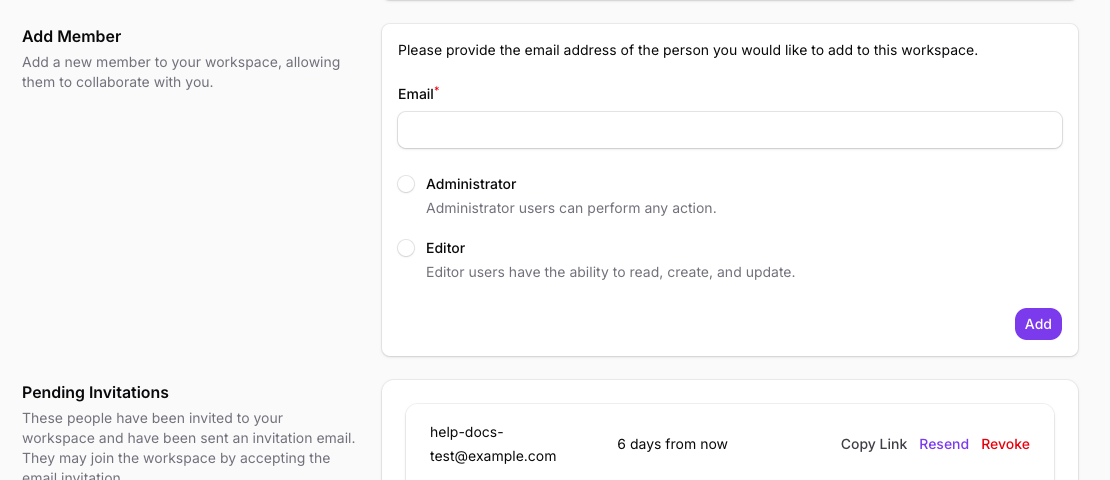
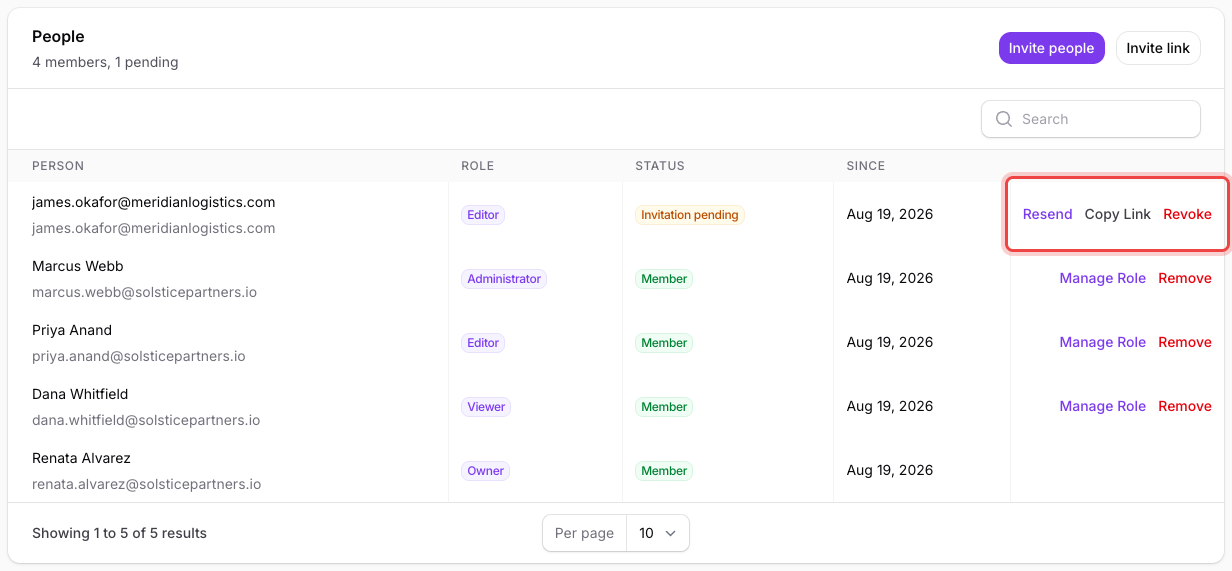
docs: update member and invitation help for the new flow

diff --git a/packages/Documentation/resources/content/help/workspace/manage-members-and-roles.md b/packages/Documentation/resources/content/help/workspace/manage-members-and-roles.md
@@ -1,48 +1,58 @@
 ---
 title: Manage members and roles
-description: What Administrators and Editors can each do, plus invitations, join links, and removing members.
+description: What Administrators, Editors, and Viewers can each do, plus invitations, join links, and removing members.
 order: 1
-updated: "2026-08-13"
+updated: "2026-08-19"
 related: [help/getting-started/invite-your-team, help/workspace/rename-or-delete-your-workspace]
 ---
 
 Membership is managed on **Workspace Settings** — click your workspace name
-at the top of the sidebar to reach it. Invitations, roles, and removals all
-live there.
+at the top of the sidebar to reach it, then click the **Members** tab.
+Invitations, roles, and removals all live there, in one **People** list of
+current members and pending invitations together.
 
-## The two roles
+## The three roles
 
-| | Administrator | Editor |
-|---|---|---|
-| Work with records — view, create, update | Yes | Yes |
-| Delete and restore records | Yes | Yes |
-| **Force delete** (permanent) | Yes | No |
+| | Administrator | Editor | Viewer |
+|---|---|---|---|
+| View records | Yes | Yes | Yes |
+| Create and update records | Yes | Yes | No |
+| Delete and restore records | Yes | Yes | No |
+| **Force delete** records (permanent) | Yes | No | No |
+| Invite, revoke, and change member roles | Yes | No | No |
 
-Administrators can perform any action; Editors have the ability to read,
-create, and update. Two things belong to the **workspace owner** alone,
-whatever the role: the **Custom Fields** page and billing.
+Administrators manage members alongside working with records, but a few
+things stay with the **workspace owner** alone, whatever anyone's role:
+promoting someone *to* Administrator, renaming or deleting the workspace,
+and the **Custom Fields** page and billing.
+
+The owner isn't a role you assign — whoever owns the workspace always
+appears with an **Owner** badge, has no role to change, and can't leave or
+be removed.
 
 ## Invitations
 
-Send an invite from **Add Member** with an email address and a role. Until
-it's accepted it sits under **Pending Invitations**, where you can:
+Click **Invite people** to send one or more invites at once — add an email
+address and a role for each person, using **Add another** for up to 10 in
+one go. Until an invitation is accepted it sits in the **People** list with
+an **Invitation pending** status, where you can:
 
 - **Copy Link** — grab the invitation's accept URL to hand over directly, if
   the email didn't arrive.
 - **Resend** the email.
 - **Revoke** the invitation.
 
-Invitations expire — the **Expires** column shows when.
+![The People list showing members with their roles and a pending invitation with Copy Link, Resend, and Revoke actions](/help-assets/workspace/manage-members-and-roles-1.png)
 
-![The Add Member form with the Administrator and Editor role choices, and a pending invitation with Copy Link, Resend, and Revoke actions](/help-assets/workspace/manage-members-and-roles-1.png)
-
-There's also a workspace **join link**, offered on the invite step when you
-[create a workspace](/help/workspace/rename-or-delete-your-workspace):
-anyone with it joins as an Editor, and the link stays valid for 7 days.
+There's also a workspace **join link**, managed from **Invite link** next to
+**Invite people**: copy it to share directly, generate a new one if it
+leaks, and set the role people get when they join with it — Editor by
+default. The link stays valid for 7 days.
 
 ## Changing and removing members
 
-In the **Members** list, click a member's role to open **Manage Role** and
-switch them between Administrator and Editor. **Remove** takes a member out
-of the workspace — their records stay, they lose access. Members can also
-**Leave** a workspace themselves, except the one they created.
+In the **People** list, click a member's **Manage Role** to switch them
+between Administrator, Editor, and Viewer. **Remove** takes a member out of
+the workspace — their records stay, they lose access. Any member but the
+owner can **Leave** the workspace themselves; the owner has no **Leave**
+action.

diff --git a/packages/Documentation/resources/content/help/getting-started/invite-your-team.md b/packages/Documentation/resources/content/help/getting-started/invite-your-team.md
@@ -1,30 +1,32 @@
 ---
 title: Invite your team
-description: Add teammates to your workspace as an Administrator or an Editor.
+description: Add teammates to your workspace as an Administrator, Editor, or Viewer.
 order: 6
-updated: "2026-08-12"
+updated: "2026-08-19"
 related: [help/getting-started/create-your-first-company, help/getting-started/find-anything-with-search-and-filters]
 ---
 
 Bring your team into the workspace so everyone works from the same records.
-Send an invite by email and choose whether they can manage everything or
-just read, create, and update records.
+Send one or more invites by email and choose what each person can do:
+manage the workspace, edit records, or just view them.
 
 1. Click your workspace name at the top of the sidebar, then click
    **Workspace Settings**.
-2. Under **Add Member**, type their address into **Email**.
-3. Choose **Administrator** — can perform any action — or **Editor** — can
-   read, create, and update.
-4. Click **Add**.
+2. Click the **Members** tab.
+3. Click **Invite people**.
+4. Type an address into **Email** and choose a role — **Administrator**,
+   **Editor**, or **Viewer**. Click **Add another** to queue up more
+   people, up to 10 in one go.
+5. Click **Submit**.
 
-![The Add Member form with the Email field and a choice between the Administrator and Editor roles](/help-assets/getting-started/invite-your-team-1.png)
+![The Invite people modal with an email address and a role for each person being invited](/help-assets/getting-started/invite-your-team-1.png)
 
-They receive an invitation email and appear under **Pending Invitations**
-until they accept, with an expiry date shown next to their address. From
-there you can **Copy Link**, **Resend**, or **Revoke** the invite.
+Each person receives an invitation email and appears in the workspace's
+**People** list with an **Invitation pending** status until they accept.
+From there you can **Copy Link**, **Resend**, or **Revoke** the invite.
 
 ## If you invited the wrong address, then revoke it
 
-Find the invitation under **Pending Invitations** and click **Revoke**. It
-can no longer be used to join your workspace, and you can send a new one
-with the correct address.
+Find the invitation in the **People** list and click **Revoke**. It can no
+longer be used to join your workspace, and you can send a new one with the
+correct address.
